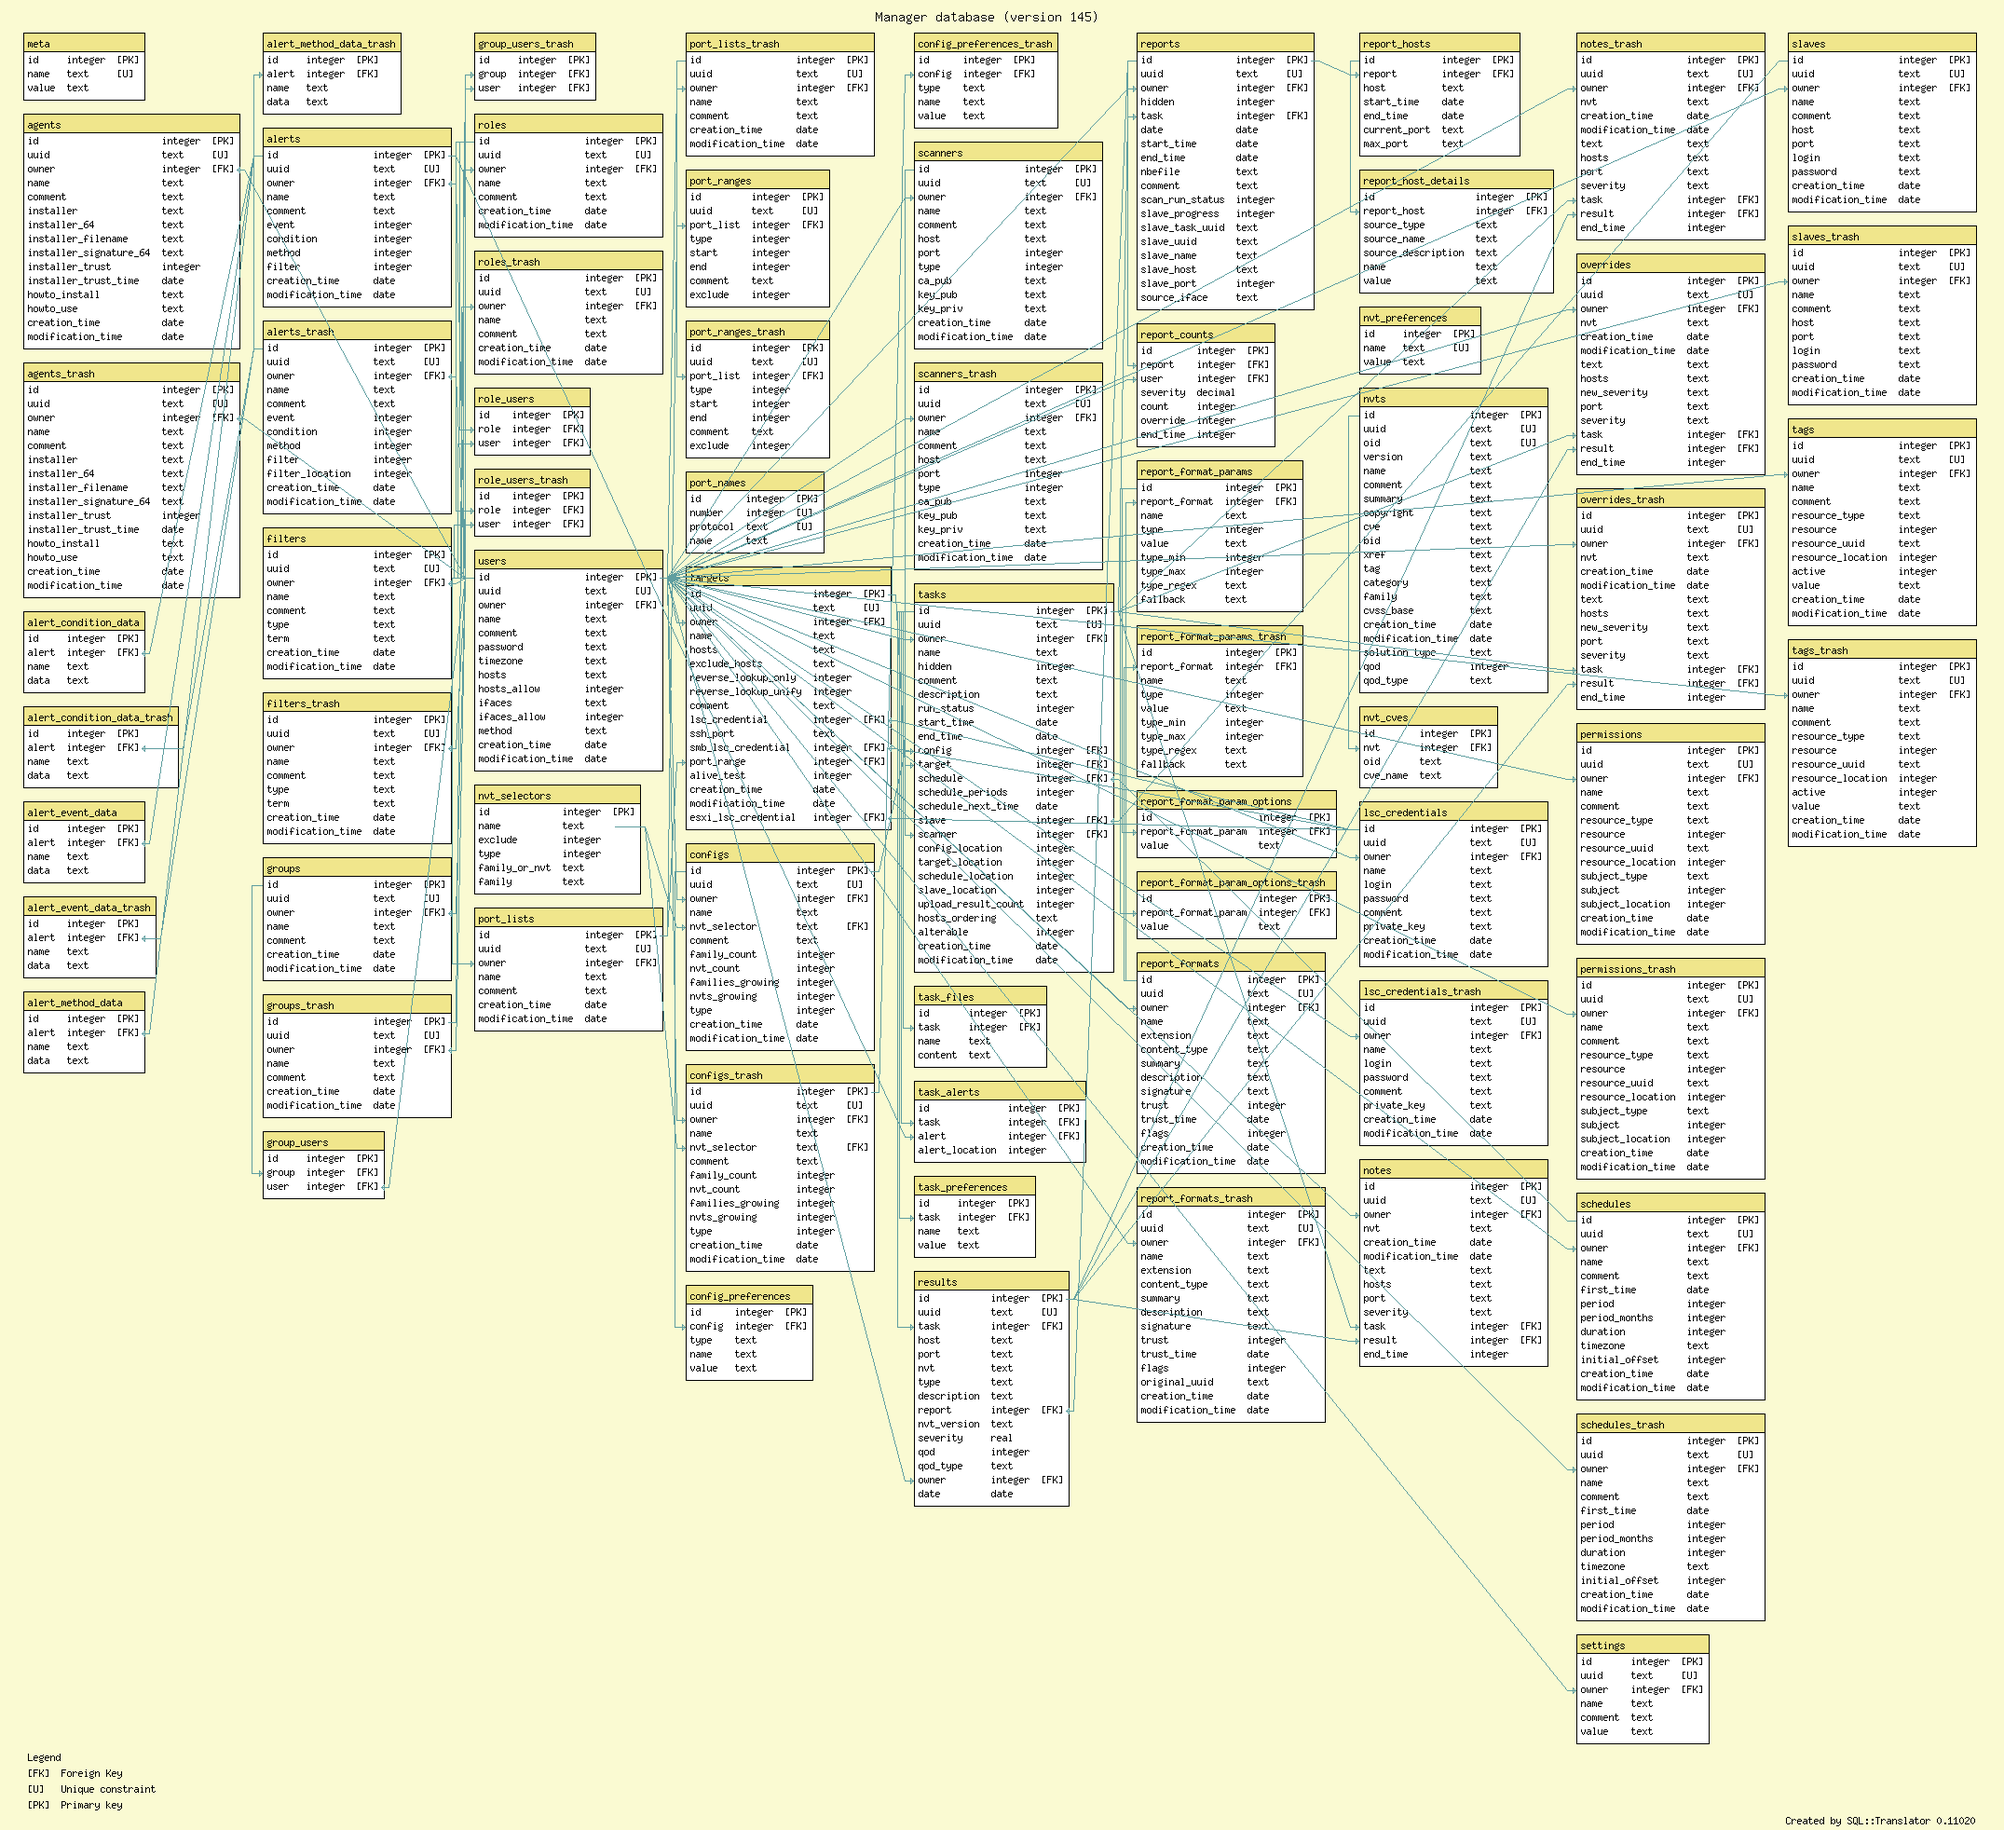
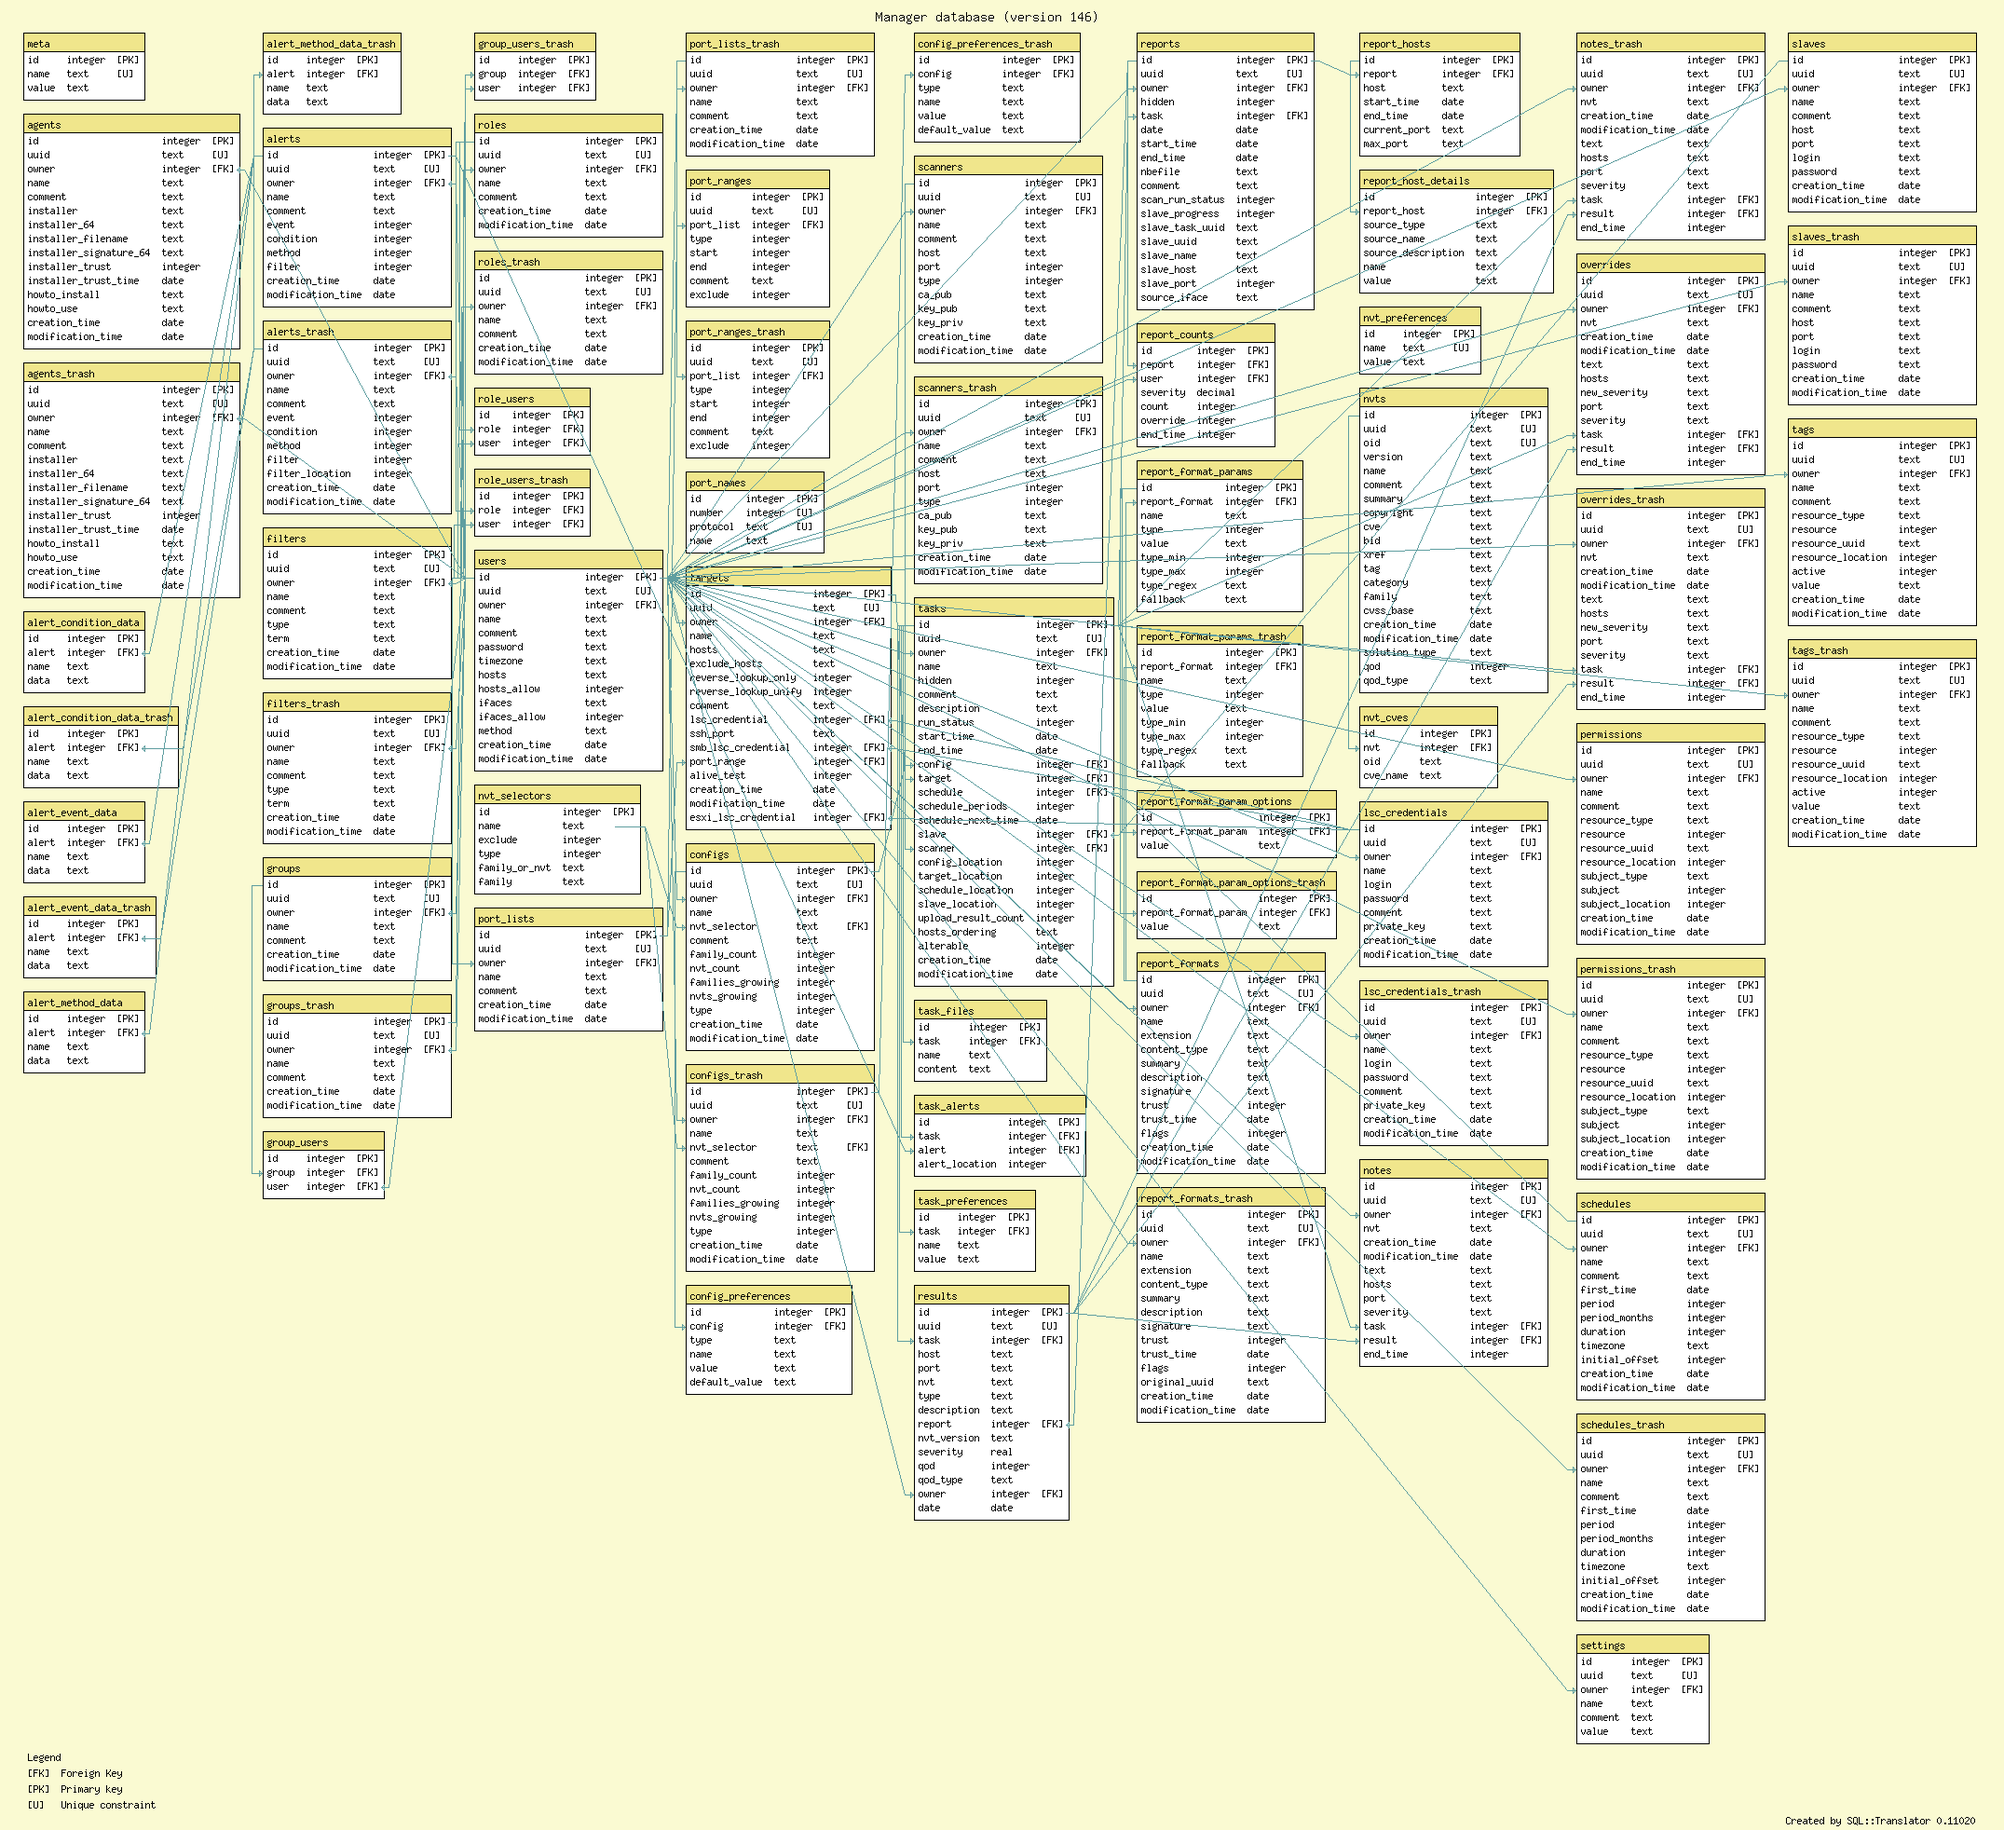
* src/manage_pg.c, doc/db_postgres.sql, doc/db.png: Files missed in last 	commit.
git-svn-id: svn+ssh://scm.wald.intevation.org/openvas/branches/openvas-manager-6.0@26361 423fd1db-d629-0410-8442-d21db03e70f4

diff --git a/src/manage_pg.c b/src/manage_pg.c
@@ -1706,7 +1706,8 @@ create_tables ()
        "  config integer REFERENCES configs_trash (id) ON DELETE RESTRICT,"
        "  type text,"
        "  name text,"
-       "  value text);");
+       "  value text,"
+       "  default_value text);");
 
   sql ("CREATE TABLE IF NOT EXISTS schedules"
        " (id SERIAL PRIMARY KEY,"
